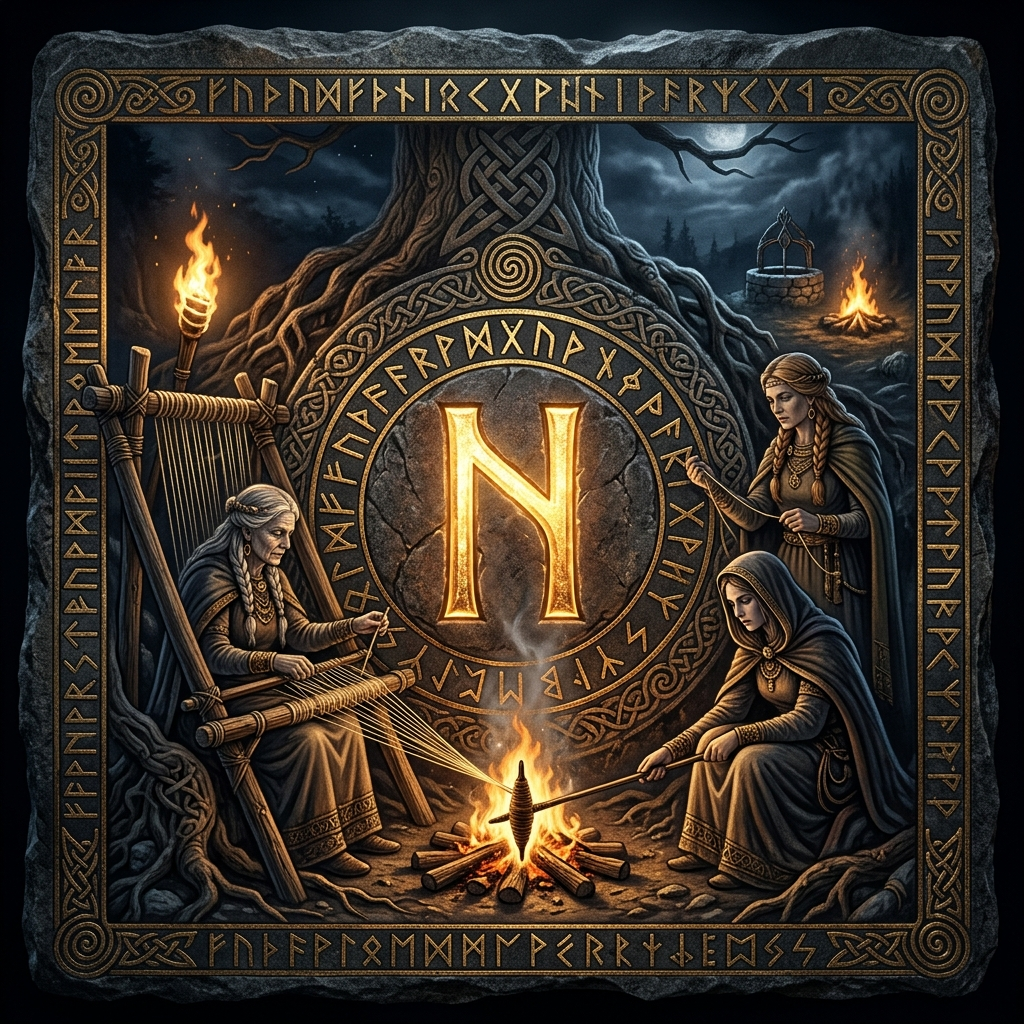
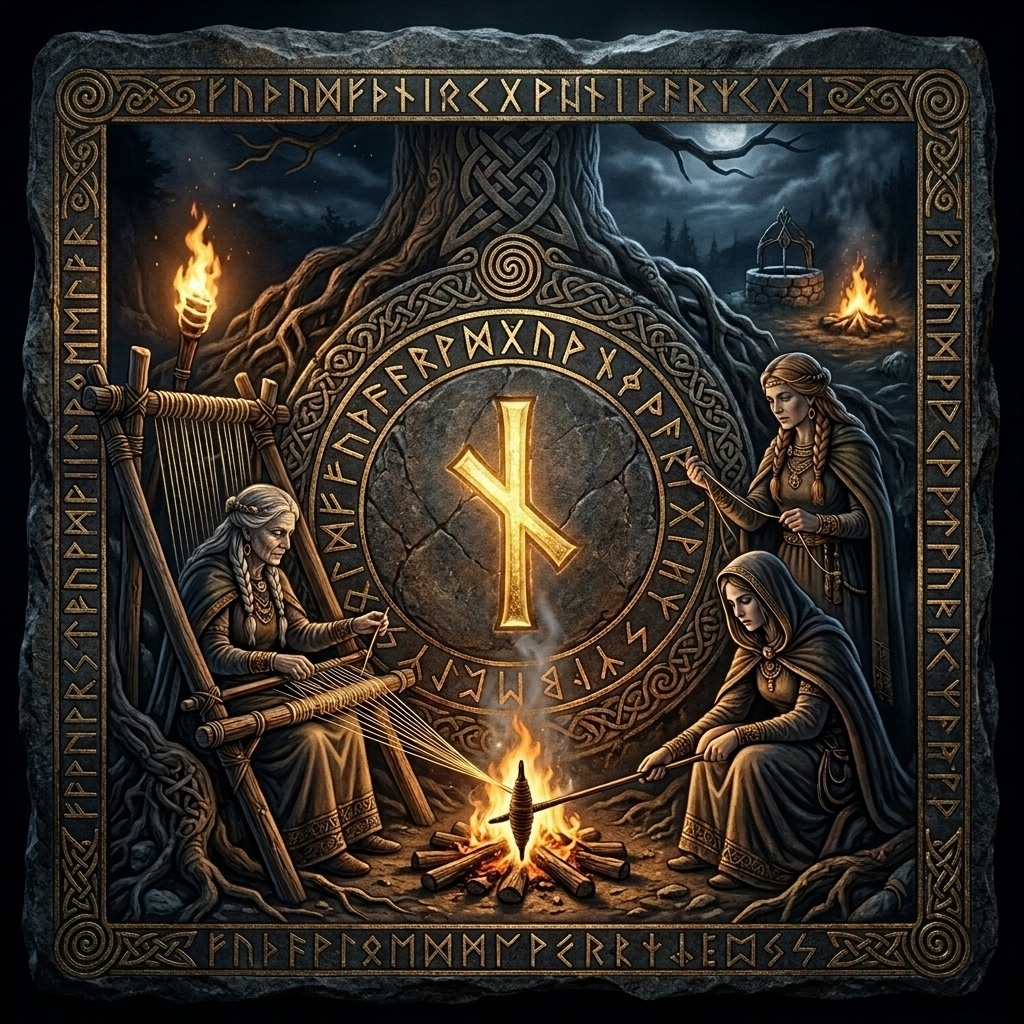
Fix Nauthiz and Ehwaz rune symbols in images and source text

diff --git a/src/data/runesData.ts b/src/data/runesData.ts
@@ -8,7 +8,7 @@ export interface RuneData {
   godOrPower: BilingualText;
   image: string;
   nornStage: BilingualText; // Urd (Past), Verdandi (Present), Skuld (Future)
-  
+
   summary: BilingualText;
   symbolism: BilingualText;
   jungianAnalysis: BilingualText;
@@ -232,16 +232,16 @@ export const RUNES_DECK: RuneData[] = [
       es: "Hagalaz es la tormenta de granizo: la repentina e incontrolable destrucción de las viejas estructuras. Es la crisis que destroza las ilusiones y altera los planes rígidos. Aunque aterradora, esta interrupción es completamente natural y necesaria para barrer lo que está estancado o es falso en tu vida. Se te aconseja no luchar contra la tormenta ni aferrarte a cimientos que se desmoronan. Ríndete al caos, deja que las estructuras falsas caigan y prepara el terreno para reconstruir tu vida sobre una base mucho más verdadera y auténtica."
     },
     symbolism: {
-      en: "The rune resembles a structural beam shattered by cross-forces. Associated with Urd (the Norn of the past) and the destructive aspect of Ymir, it is the cosmic reset button—the winter storm before spring.",
-      es: "La runa se asemeja a una viga estructural destrozada por fuerzas cruzadas. Asociada con Urd (la Norna del pasado) y el aspecto destructivo de Ymir, es el botón de reinicio cósmico: la tormenta de invierno antes de la primavera."
+      en: "Although at first glance it seems a negative rune, it is the \"necessary destruction\". Represents drastic events beyond our control, but which serve to destroy old patterns, clear the ground and force us to wake up or change course. The rune resembles a structural beam shattered by cross-forces. Associated with the goddess **Hel** (sovereign of the underworld) and Urd (the Norn of the past) and the destructive aspect of Ymir, it is the cosmic reset button—the winter storm before spring.",
+      es: "Aunque a primera vista parece una runa negativa, Hagalaz es la \"destrucción necesaria\". Representa eventos drásticos que están fuera de nuestro control, pero que sirven para destruir viejos patrones, limpiar el terreno y obligarnos a despertar o cambiar de rumbo. La runa se asemeja a una viga estructural destrozada por fuerzas cruzadas. Asociada con la diosa **Hel** (soberana del inframundo) y con Urd (la Norna del pasado) y el aspecto destructivo de Ymir, es el botón de reinicio cósmico: la tormenta de invierno antes de la primavera."
     },
     jungianAnalysis: {
       en: "Hagalaz embodies the archetype of the Shadow Eruption and the psychological principle of Enantiodromia (when things turn into their opposites). When ego structures become too rigid, arrogant, or disconnected from the Self, the unconscious violently intervenes to break them down. It is the necessary psychological catastrophe that precedes any profound transformation. It teaches that the ego is not the master of the psyche, and that radical ego-death is often the only way to cure deep-seated neurosis.",
       es: "Hagalaz encarna el arquetipo de la Erupción de la Sombra y el principio psicológico de la Enantiodromía (cuando las cosas se convierten en sus opuestos). Cuando las estructuras del ego se vuelven demasiado rígidas, arrogantes o desconectadas del Sí-Mismo, el inconsciente interviene violentamente para derribarlas. Es la catástrofe psicológica necesaria que precede a cualquier transformación profunda. Enseña que el ego no es el amo de la psique, y que la muerte radical del ego a menudo es la única forma de curar una neurosis profundamente arraigada."
     },
     herosJourney: {
-      en: "In the Hero's Journey, Hagalaz represents 'The Belly of the Whale' or the sudden crisis that decisively destroys the hero's known world. The hero is violently swallowed by the unknown, stripped of their previous identity, defenses, and comforts. It is a terrifying descent into the underworld where all control must be relinquished. The hero learns that to survive the ordeal and be reborn, they must first allow their old self to be completely shattered by the storm.",
-      es: "En el Viaje del Héroe, Hagalaz representa 'El Vientre de la Ballena' o la crisis repentina que destruye decisivamente el mundo conocido del héroe. El héroe es violentamente tragado por lo desconocido, despojado de su identidad anterior, sus defensas y comodidades. Es un descenso aterrador al inframundo donde todo control debe ser abandonado. El héroe aprende que para sobrevivir a la prueba y renacer, primero debe permitir que su antiguo yo sea completamente destrozado por la tormenta."
+      en: "It is the moment when the hero suffers an unexpected setback (lightning destroying his castle, a storm sinking his ship). He is reminded that he does not have absolute control and must learn to adapt to primordial forces. Hagalaz represents 'The Belly of the Whale' or the sudden crisis that decisively destroys the hero's known world. The hero is violently swallowed by the unknown, stripped of their previous identity, defenses, and comforts. It is a terrifying descent into the underworld where all control must be relinquished. The hero learns that to survive the ordeal and be reborn, they must first allow their old self to be completely shattered by the storm.",
+      es: "Es el momento en que el héroe sufre un revés inesperado (un rayo que destruye su castillo, una tormenta que hunde su barco). Se le recuerda que no tiene el control absoluto y debe aprender a adaptarse a las fuerzas primordiales. Hagalaz representa 'El Vientre de la Ballena' o la crisis repentina que destruye decisivamente el mundo conocido del héroe. El héroe es violentamente tragado por lo desconocido, despojado de su identidad anterior, sus defensas y comodidades. Es un descenso aterrador al inframundo donde todo control debe ser abandonado. El héroe aprende que para sobrevivir a la prueba y renacer, primero debe permitir que su antiguo yo sea completamente destrozado por la tormenta."
     }
   },
   {
@@ -253,20 +253,20 @@ export const RUNES_DECK: RuneData[] = [
     image: "./runes/10_nauthiz.png",
     nornStage: { en: "Urd / Verdandi / Skuld", es: "Urd / Verdandi / Skuld" },
     summary: {
-      en: "Nauthiz is the rune of need, constraint, and necessity. It represents the heavy burden of limitation, unavoidable delays, and the harsh friction of survival. It highlights the stark difference between what you want and what you truly need. This rune indicates a period of severe restriction where external progress is blocked. However, it is precisely this agonizing friction that creates the inner fire of resilience. Embrace the constraint, for it forces you to dig deep and discover your unbreakable core.",
-      es: "Nauthiz es la runa de la necesidad, la restricción y la obligación. Representa la pesada carga de la limitación, los retrasos inevitables y la dura fricción de la supervivencia. Destaca la cruda diferencia entre lo que quieres y lo que realmente necesitas. Esta runa indica un período de severa restricción donde el progreso externo está bloqueado. Sin embargo, es precisamente esta fricción agonizante la que crea el fuego interior de la resiliencia. Abraza la restricción, porque te obliga a cavar profundo y descubrir tu núcleo inquebrantable."
+      en: "Nauthiz, the crucible of friction, is the rune of need, constraint, and necessity. It represents the heavy burden of limitation, unavoidable delays, and the harsh friction of survival. It highlights the stark difference between what you want and what you truly need. This rune indicates a period of severe restriction where external progress is blocked. However, it is precisely this agonizing friction that creates the inner fire of resilience. Embrace the constraint, for it forces you to dig deep and discover your unbreakable core.",
+      es: "Nauthiz, el crisol de la fricción, es la runa de la necesidad, la restricción y la obligación. Representa la pesada carga de la limitación, los retrasos inevitables y la dura fricción de la supervivencia. Destaca la cruda diferencia entre lo que quieres y lo que realmente necesitas. Esta runa indica un período de severa restricción donde el progreso externo está bloqueado. Sin embargo, es precisamente esta fricción agonizante la que crea el fuego interior de la resiliencia. Abraza la restricción, porque te obliga a cavar profundo y descubrir tu núcleo inquebrantable."
     },
     symbolism: {
-      en: "The glyph represents the two sticks of a bow-drill rubbing together to create fire. Associated with Verdandi (the Norn of necessity) and the harsh winters of Midgard, it is the fire born from desperate need.",
-      es: "El glifo representa los dos palos de un taladro de arco frotándose para crear fuego. Asociado con Verdandi (la Norna de la necesidad) y los duros inviernos de Midgard, es el fuego nacido de la necesidad desesperada."
+      en: "The glyph represents the two sticks of a bow-drill rubbing together to create fire. Associated with Verdandi (the Norn of the present and the necessity) and the harsh winters of Midgard, it is the fire born from desperate need. It represents the weight of limitations, unavoidable delays, and the harsh friction of survival.",
+      es: "El glifo representa los dos palos de un taladro de arco frotándose para crear fuego. Asociado con Verdandi (la Norna del presente y la necesidad) y los duros inviernos de Midgard, es el fuego nacido de la necesidad desesperada. Representa el peso de las limitaciones, los retrasos inevitables y la dura fricción de la supervivencia."
     },
     jungianAnalysis: {
       en: "Nauthiz relates to the archetype of the Shadow and the psychological complex of Deprivation. It is the agonizing experience of limitation, frustration, and blocked libido. Jung taught that neurosis is often born from the refusal to bear legitimate suffering. Nauthiz demands that we endure the 'tension of opposites' without seeking an immediate escape. By holding this tension consciously, the friction eventually produces the 'Transcendent Function'—the inner fire of transformation that resolves the psychological deadlock.",
       es: "Nauthiz se relaciona con el arquetipo de la Sombra y el complejo psicológico de Privación. Es la experiencia agonizante de limitación, frustración y libido bloqueada. Jung enseñó que la neurosis a menudo nace de la negativa a soportar el sufrimiento legítimo. Nauthiz exige que soportemos la 'tensión de los opuestos' sin buscar un escape inmediato. Al sostener esta tensión conscientemente, la fricción eventualmente produce la 'Función Trascendente': el fuego interior de transformación que resuelve el punto muerto psicológico."
     },
     herosJourney: {
-      en: "In the Hero's Journey, Nauthiz represents the darkest part of 'The Road of Trials', focusing on limitation and endurance. The hero faces severe scarcity, despair, or a seemingly impossible restriction that tests their breaking point. There is no easy way out and no magical rescue. The hero learns that necessity is the ultimate forge of character, forcing them to find hidden inner reserves of willpower they never knew they possessed to survive the ordeal.",
-      es: "En el Viaje del Héroe, Nauthiz representa la parte más oscura de 'La Ruta de las Pruebas', enfocándose en la limitación y la resistencia. El héroe enfrenta una severa escasez, desesperación o una restricción aparentemente imposible que pone a prueba su punto de quiebre. No hay salida fácil ni rescate mágico. El héroe aprende que la necesidad es la forja definitiva del carácter, obligándolo a encontrar reservas internas ocultas de fuerza de voluntad que nunca supo que poseía para sobrevivir a la prueba."
+      en: "In the Hero's Journey, Nauthiz represents the darkest part of 'The Road of Trials', focusing on limitation, frustration and blocked libido. Facing the stark difference between what you want and what you truly need. The hero faces severe scarcity, despair, or a seemingly impossible restriction that tests their breaking point. There is no easy way out and no magical rescue. The hero learns that necessity is the ultimate forge of character, forcing them to find hidden inner reserves of willpower they never knew they possessed to survive the ordeal.",
+      es: "En el Viaje del Héroe, Nauthiz representa la parte más oscura de 'La Ruta de las Pruebas', enfocándose en la limitación, frustración y la libido bloqueada. Se enfrenta a la cruda diferencia entre lo que quiere y lo que realmente necesita. El héroe enfrenta una severa escasez, desesperación o una restricción aparentemente imposible que pone a prueba su punto de quiebre. No hay salida fácil ni rescate mágico. El héroe aprende que la necesidad es la forja definitiva del carácter, obligándolo a encontrar reservas internas ocultas de fuerza de voluntad que nunca supo que poseía para sobrevivir a la prueba."
     }
   },
   {

diff --git a/runes14-24.md b/runes14-24.md
@@ -8,7 +8,7 @@ Este documento establece la guía técnica, arqueológica y mística para genera
 ## 🛡 La Triada Estética: Runa, Dios y Símbolo
 
 Para cada ilustración, la jerarquía visual es estricta:
-1. **Foco Principal (LA RUNA):** El glifo rúnico (ej. ᛈ, ᛉ, ᛋ) debe ser el centro absoluto, tallado profundamente en la piedra y brillando o destacando visualmente.
+1. **Foco Principal (LA RUNA):** El glifo rúnico (ej. ᛈ, ᛉ, ᛋ) debe ser el centro absoluto, tallado profundamente en la piedra y brillando o destacando visualmente. La runa tiene entre una luminosidad dorada y tirandole a color fuego.
 2. **Fondo / Entorno (EL DIOS):** La presencia del dios no es un personaje humano, sino un **rostro místico tallado en bajorrelieve (*bas-relief*)** en la misma piedra, observando desde el fondo (estilo piedra de Gotland o placas de Vendel).
 3. **Detalles (EL SÍMBOLO):** Objetos sagrados (Gjallarhorn, manzanas de Idunn, cuervos) entrelazados en el tallado alrededor de la runa.
 
@@ -23,6 +23,7 @@ Para cada ilustración, la jerarquía visual es estricta:
 
 ### Tarea 1: Verificación y Auditoría de Diffs de Texto (`App.tsx` & `runesData.ts`)
 - **Acción:** Confirmar que la etiqueta del UI `"El Camino del Héroe"` esté correctamente integrada y desplegada en producción.
+- Revisa las previas runas generadas y asegúrate de que la calidad sea consistente con lo esperado.
 - **Beneficio:** 9/10 - Coherencia total de la interfaz.
 - **Riesgo:** 1/10 - Cambio cosmético de bajo riesgo.
 - **Modelo Sugerido:** Gemini 3.1 Pro 🧠 - Verificación exacta.
@@ -40,7 +41,7 @@ Para cada ilustración, la jerarquía visual es estricta:
 - **15. Algiz (ᛉ) — El Escudo de Cuernos y Santuario**
   - *Dios y Aspecto:* Heimdall (El Guardián Inviolable de Bifröst).
   - *Símbolos:* El cuerno Gjallarhorn y astas de alce sagradas.
-  - *Prompt:* `A dark, mystical runic artwork matching the exact style of ancient Scandinavian rune stones. The absolute central focal point is the rune ALGIZ (ᛉ) shaped like branching elk horns, deeply carved into mossy granite. Carved in the background stone bas-relief is the stern, vigilant visage of Heimdall watching over Bifröst. Inlaid in bronze at the base of the rune is the Gjallarhorn. Dark moody lighting, hyperrealistic stone texture.`
+  - *Prompt:* `A dark, mystical runic artwork matching the exact style of ancient Scandinavian rune stones. The absolute central focal point is the rune ALGIZ (ᛉ) shaped like branching elk horns, deeply carved into mossy granite. Carved in the background stone bas-relief is the stern, vigilant visage of Heimdall, carryng a shield, watching over Bifröst. Inlaid in bronze at the base of the rune is the Gjallarhorn. Dark moody lighting, hyperrealistic stone texture.`
 - **16. Sowilo (ᛋ) — La Rueda Solar y el Rayo**
   - *Dios y Aspecto:* Sól y Baldr (Victoria Solar e Iluminación).
   - *Símbolos:* Disco solar de Trundholm y la flor *Baldrsbrá*.
